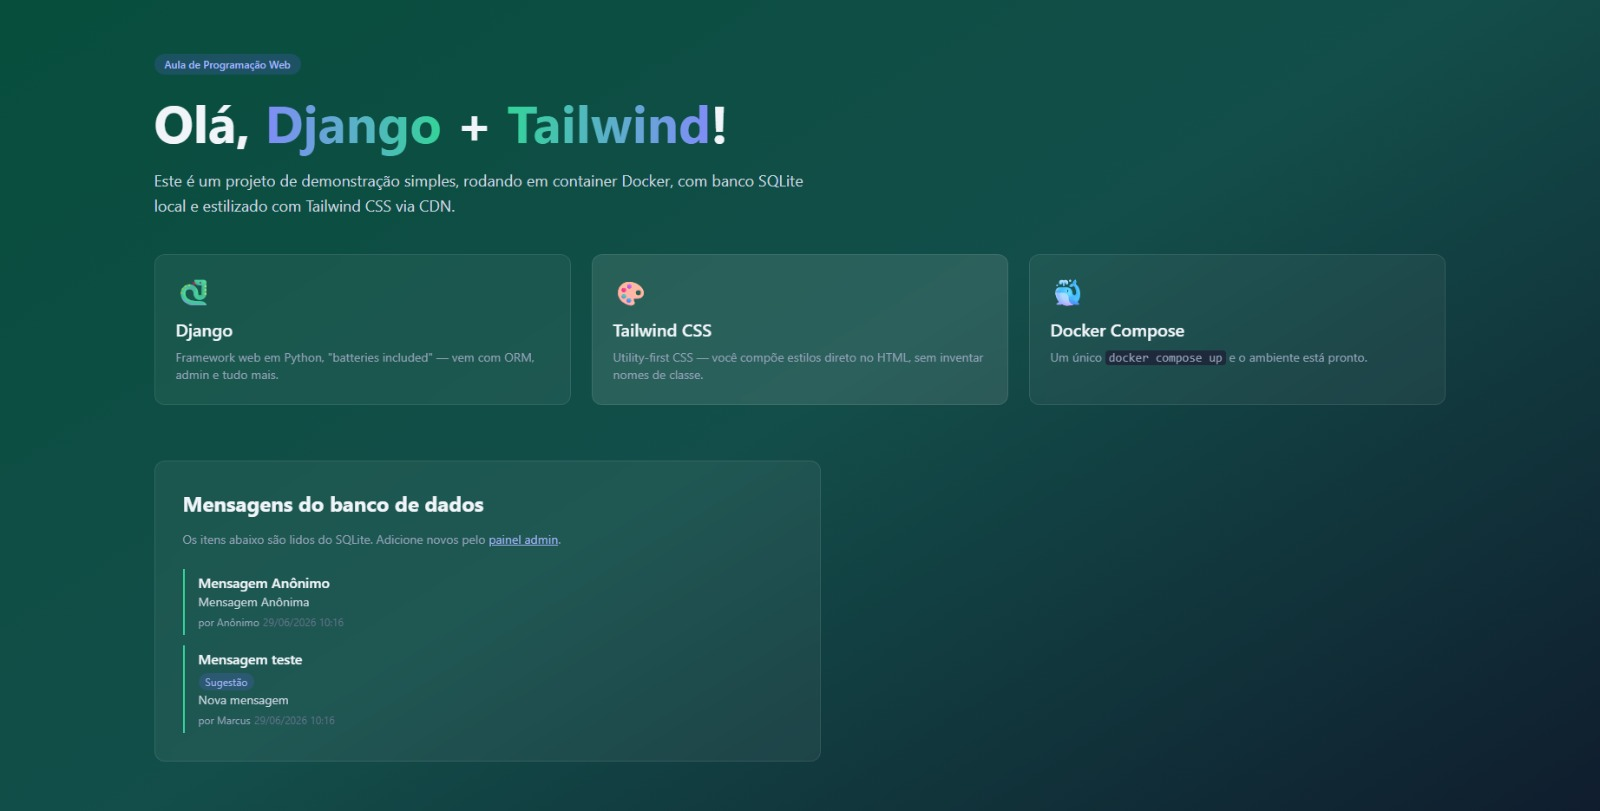
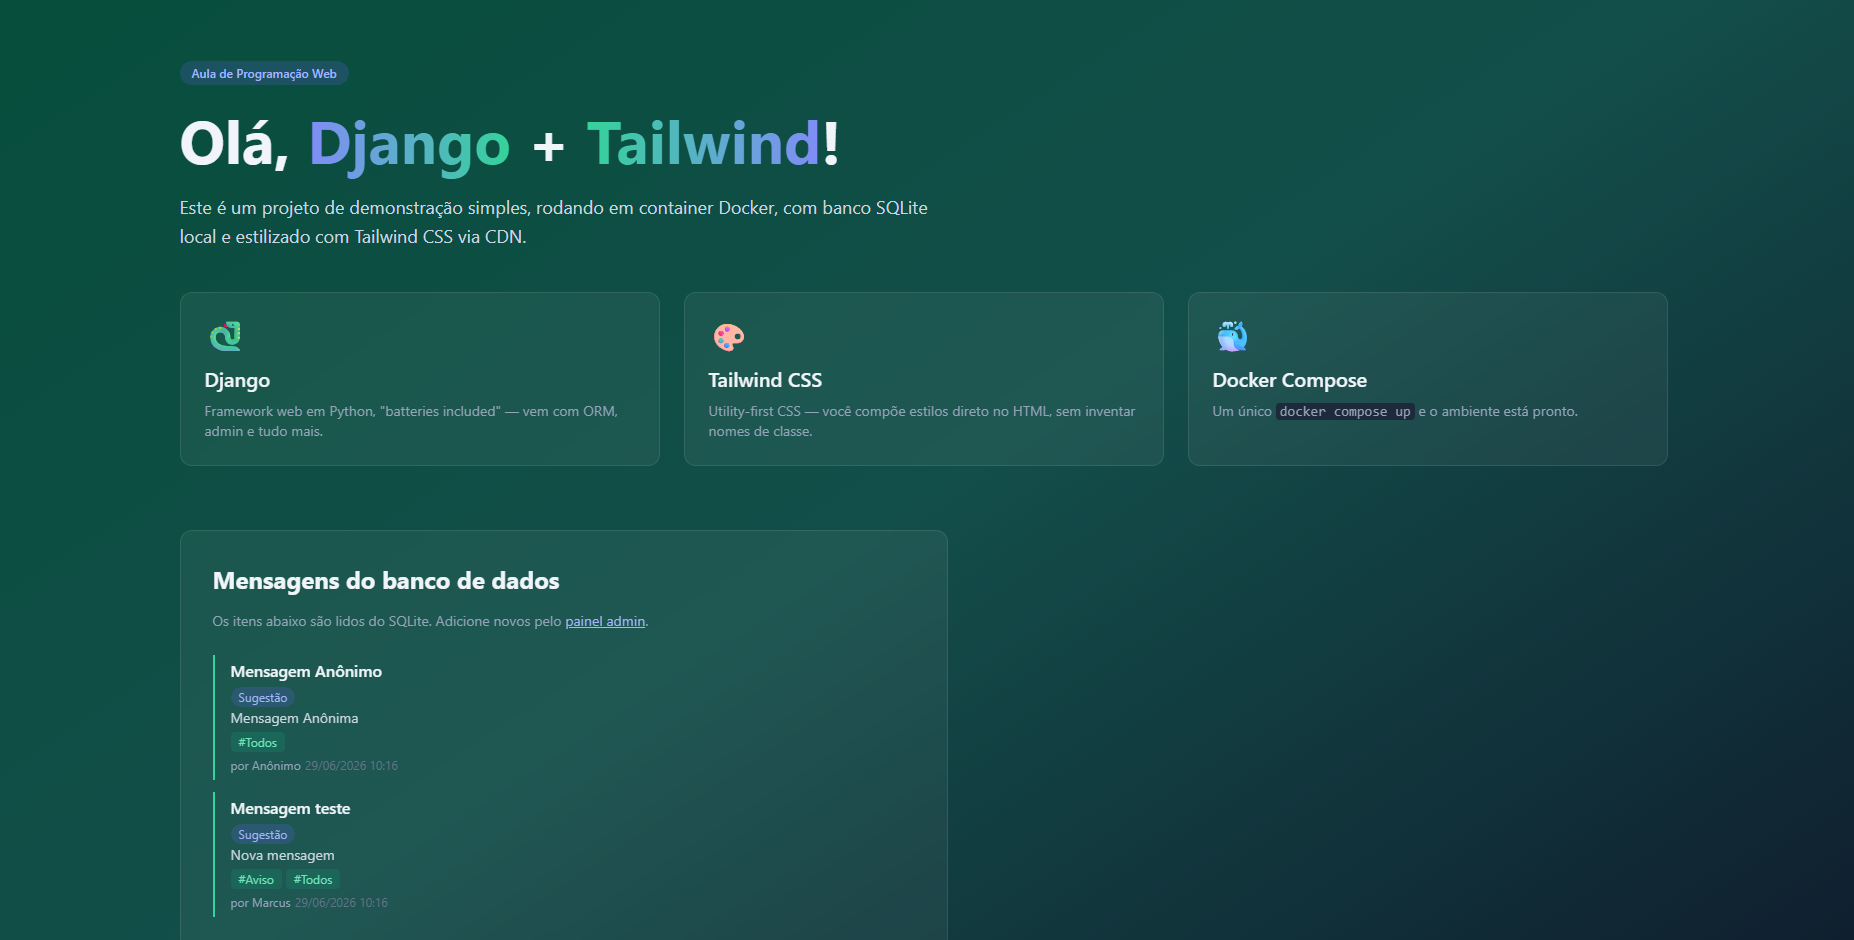
Roteiro 4

diff --git a/demo-django/templates/home/index.html b/demo-django/templates/home/index.html
@@ -119,6 +119,17 @@
             </span>
             {% endif %}
             <p class="text-sm text-slate-300">{{ m.conteudo }}</p>
+            {% if m.tags.all %} {# ← novo #}
+            <div class="flex flex-wrap gap-1 mt-1">
+              {% for tag in m.tags.all %}
+              <span
+                class="inline-block px-2 py-0.5 bg-emerald-500/15 text-emerald-300 text-xs rounded"
+              >
+                #{{ tag.nome }}
+              </span>
+              {% endfor %}
+            </div>
+            {% endif %}
             <span class="text-xs text-slate-400">por {{ m.autor }}</span>
             <span class="text-xs text-slate-500"
               >{{ m.criada_em|date:"d/m/Y H:i" }}</span

diff --git a/demo-django/home/models.py b/demo-django/home/models.py
@@ -1,8 +1,18 @@
 from django.db import models
 
 
-class Categoria(models.Model):                                 
+class Categoria(models.Model):
     nome = models.CharField(max_length=50, unique=True)
+
+    class Meta:
+        ordering = ["nome"]
+
+    def __str__(self):
+        return self.nome
+
+
+class Tag(models.Model):                                       
+    nome = models.SlugField(max_length=30, unique=True)
 
     class Meta:
         ordering = ["nome"]
@@ -15,10 +25,15 @@ class Mensagem(models.Model):
     titulo = models.CharField(max_length=120)
     conteudo = models.TextField()
     autor = models.CharField(max_length=80, default="Anônimo")
-    categoria = models.ForeignKey(                             
+    categoria = models.ForeignKey(
         Categoria,
         on_delete=models.SET_NULL,
         null=True,
+        blank=True,
+        related_name="mensagens",
+    )
+    tags = models.ManyToManyField(                              
+        Tag,
         blank=True,
         related_name="mensagens",
     )

diff --git a/demo-django/home/admin.py b/demo-django/home/admin.py
@@ -1,16 +1,23 @@
 from django.contrib import admin
 
-from .models import Categoria, Mensagem
+from .models import Categoria, Mensagem, Tag
 
 
-@admin.register(Categoria)                                      
+@admin.register(Categoria)
 class CategoriaAdmin(admin.ModelAdmin):
+    list_display = ("nome",)
+    search_fields = ("nome",)
+
+
+@admin.register(Tag)                                            
+class TagAdmin(admin.ModelAdmin):
     list_display = ("nome",)
     search_fields = ("nome",)
 
 
 @admin.register(Mensagem)
 class MensagemAdmin(admin.ModelAdmin):
-    list_display = ("titulo", "categoria", "criada_em")          
-    list_filter = ("categoria",)                                 
+    list_display = ("titulo", "categoria", "criada_em")
+    list_filter = ("categoria", "tags")                         
     search_fields = ("titulo", "conteudo")
+    filter_horizontal = ("tags",)                              

diff --git a/demo-django/home/migrations/0004_tag_mensagem_tags.py b/demo-django/home/migrations/0004_tag_mensagem_tags.py
@@ -1,0 +1,28 @@
+# Generated by Django 5.1.3 on 2026-07-17 14:27
+
+from django.db import migrations, models
+
+
+class Migration(migrations.Migration):
+
+    dependencies = [
+        ('home', '0003_categoria_mensagem_categoria'),
+    ]
+
+    operations = [
+        migrations.CreateModel(
+            name='Tag',
+            fields=[
+                ('id', models.BigAutoField(auto_created=True, primary_key=True, serialize=False, verbose_name='ID')),
+                ('nome', models.SlugField(max_length=30, unique=True)),
+            ],
+            options={
+                'ordering': ['nome'],
+            },
+        ),
+        migrations.AddField(
+            model_name='mensagem',
+            name='tags',
+            field=models.ManyToManyField(blank=True, related_name='mensagens', to='home.tag'),
+        ),
+    ]

diff --git a/README.md b/README.md
@@ -1,8 +1,8 @@
-# 🚀 Django + Tailwind CSS: Modelos e Relacionamentos (1:N)
+# 🚀 Django + Tailwind CSS: Relacionamentos Muitos-para-Muitos (N:N) e Shell ORM
 
-Este repositório contém a segunda etapa do projeto `demo-django`. O objetivo desta fase foi aprofundar os conhecimentos no ORM do Django, implementando um relacionamento **Um-para-Muitos (1:N)** no banco de dados, além de estilizar os novos componentes dinâmicos utilizando o Tailwind CSS.
+Este repositório contém a quarta etapa do projeto `demo-django`. O objetivo desta fase foi compreender e implementar um relacionamento de **Muitos-para-Muitos (N:N)** no banco de dados utilizando o Django ORM, além de manipular os dados diretamente através do ambiente interativo do Django Shell.
 
-O projeto roda inteiramente em um container **Docker**, garantindo que o ambiente seja idêntico para qualquer desenvolvedor.
+O projeto continua rodando de forma isolada e simplificada dentro de containers **Docker**.
 
 ---
 
@@ -15,13 +15,44 @@ O projeto roda inteiramente em um container **Docker**, garantindo que o ambient
 
 ---
 
+## 📸 Screenshots
+
+### Página Inicial
+
+![Página Inicial](demo-django/imagens/image1.png)
+
+_Visualização das mensagens e suas respectivas tags._
+
+---
+
+### Gerenciamento de Tags no Admin
+
+![Tags no Admin](demo-django/imagens/image3.png)
+
+_Cadastro e manutenção das tags através do Django Admin._
+
+---
+
+### Associação de Tags às Mensagens
+
+![Relacionamento N](demo-django/imagens/image2.png)
+
+_Interface com `filter_horizontal` para facilitar a associação entre mensagens e tags._
+
+---
+
+_Manipulação dos relacionamentos N:N diretamente pelo ORM._
+
+---
+
 ## 🧠 O Que Foi Aprendido Nesta Etapa
 
-- **Modelagem baseada em relacionamentos:** criação do model `Categoria` e associação com o model `Mensagem` através de uma chave estrangeira (`ForeignKey`).
-- **Comportamento de remoção (`on_delete`):** configuração do parâmetro `models.SET_NULL` para garantir a integridade dos dados e evitar que mensagens sejam apagadas caso sua categoria seja removida.
-- **Customização do Django Admin:** registro de novos modelos no painel administrativo, inclusão de colunas de exibição (`list_display`) e criação de filtros laterais baseados no relacionamento (`list_filter`).
-- **Consultas do ORM em templates:** navegação por tabelas relacionadas (`{{ mensagem.categoria.nome }}`) com renderização condicional utilizando `{% if %}`.
-- **Relacionamento reverso (Reverse Lookup):** uso do `related_name="mensagens"` para consultar dados a partir do elemento pai (ex.: `categoria.mensagens.all()`) utilizando o Django Shell.
+- **Modelagem Muitos-para-Muitos (N:N):** criação do model `Tag` e sua associação com o model `Mensagem` usando o campo `ManyToManyField`.
+- **Tabelas intermediárias (tabelas de junção):** compreensão de como o Django gerencia automaticamente a tabela pivô (`home_mensagem_tags`) para conectar registros de ambas as tabelas.
+- **Campos específicos (`SlugField`):** utilização de slugs para garantir URLs amigáveis e padronizadas.
+- **Otimização do Django Admin:** uso da propriedade `filter_horizontal` para melhorar a experiência de seleção de múltiplos registros relacionados.
+- **Renderização dinâmica de coleções:** utilização do laço `{% for tag in m.tags.all %}` para exibir as tags associadas a cada mensagem.
+- **Consultas reversas:** acesso às mensagens relacionadas a partir de uma tag utilizando o `related_name`.
 
 ---
 
@@ -37,13 +68,13 @@ Para construir a imagem e iniciar a aplicação, execute:
 docker compose up --build
 ```
 
-O servidor estará disponível em:
+A aplicação estará disponível em:
 
 ```text
 http://localhost:8000
 ```
 
-### 2. Gerar e aplicar as migrações no banco
+### 2. Gerar e aplicar as migrações
 
 Com o container em execução, abra um novo terminal e execute:
 
@@ -52,26 +83,34 @@ docker compose run --rm web python manage.py makemigrations
 docker compose run --rm web python manage.py migrate
 ```
 
-### 3. Acessar o Painel Administrativo
+### 3. Gerenciar dados pelo Painel Administrativo
 
-Para cadastrar categorias e gerenciar as mensagens, acesse:
+Acesse:
 
 ```text
 http://localhost:8000/admin/
 ```
 
-### Página Inicial
+No painel administrativo será possível:
 
-![Página Inicial](demo-django/imagens/image1.png)
+- Criar novas tags.
+- Editar tags existentes.
+- Associar múltiplas tags a uma mesma mensagem.
+- Visualizar e gerenciar os relacionamentos N:N.
 
-### Painel admin (Categorias)
+---
 
-![Painel admin Categorias](demo-django/imagens/image2.png)
+## 🔄 Entendendo o Relacionamento N:N
 
-### Painel admin (Mensagens)
+Neste projeto:
 
-![Painel admin Mensagens](demo-django/imagens/image3.png)
+- Uma **Mensagem** pode possuir várias **Tags**.
+- Uma **Tag** pode estar associada a várias **Mensagens**.
+
+O Django cria automaticamente uma tabela intermediária para armazenar essas associações, eliminando a necessidade de gerenciar manualmente as chaves estrangeiras.
+
+---
 
 ## 💡 Sobre o Projeto
 
-Este projeto faz parte do meu portfólio de estudos em desenvolvimento backend com Python e Django, com foco em modelagem de dados, ORM, Docker e boas práticas de desenvolvimento web.
+Este projeto faz parte do meu portfólio de estudos em desenvolvimento backend com Python e Django, com foco em modelagem de banco de dados, ORM, Docker e boas práticas de desenvolvimento web.
